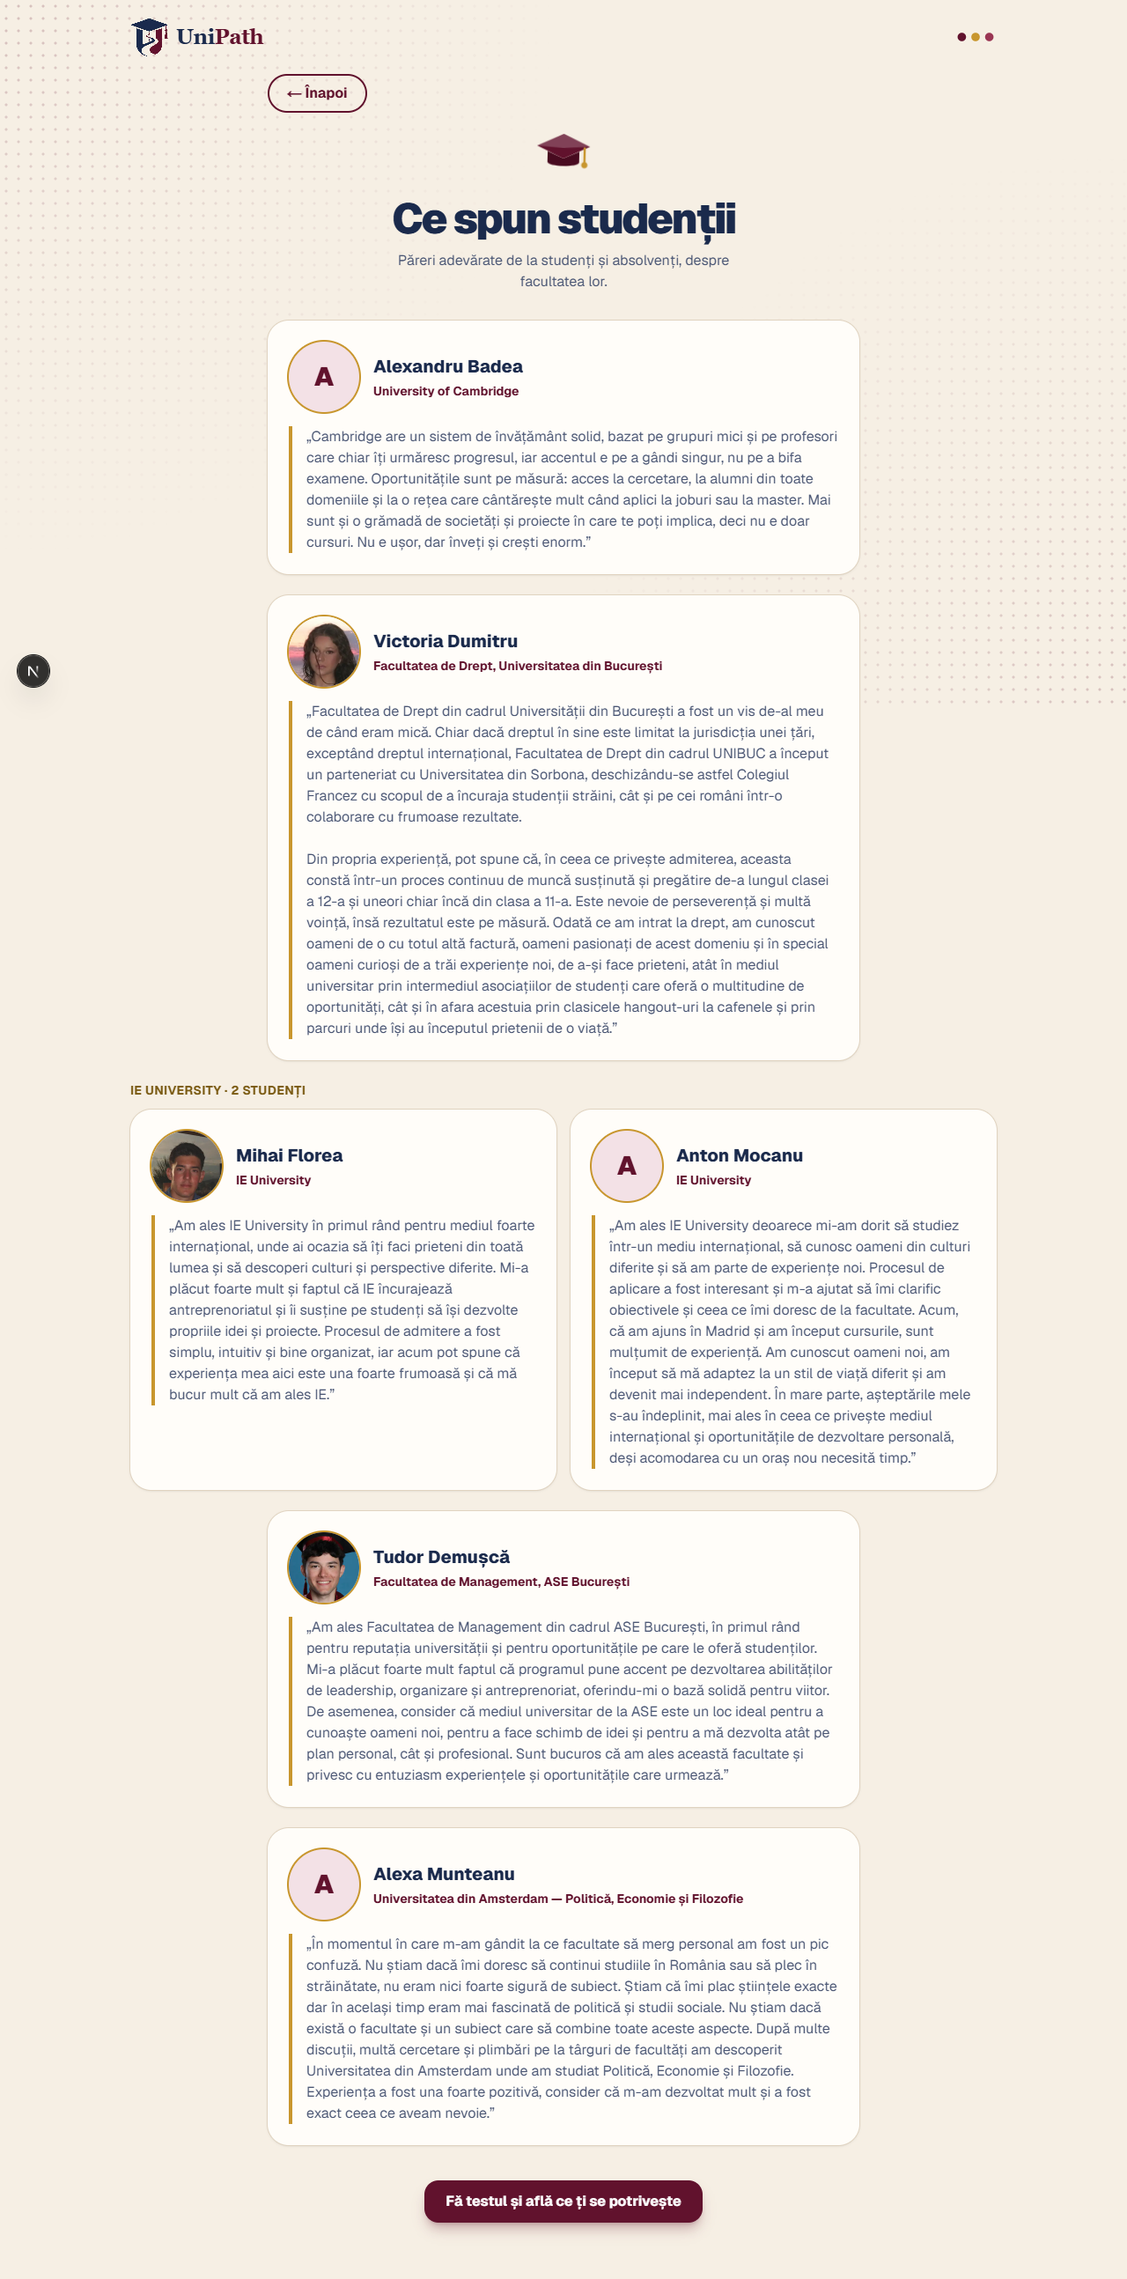
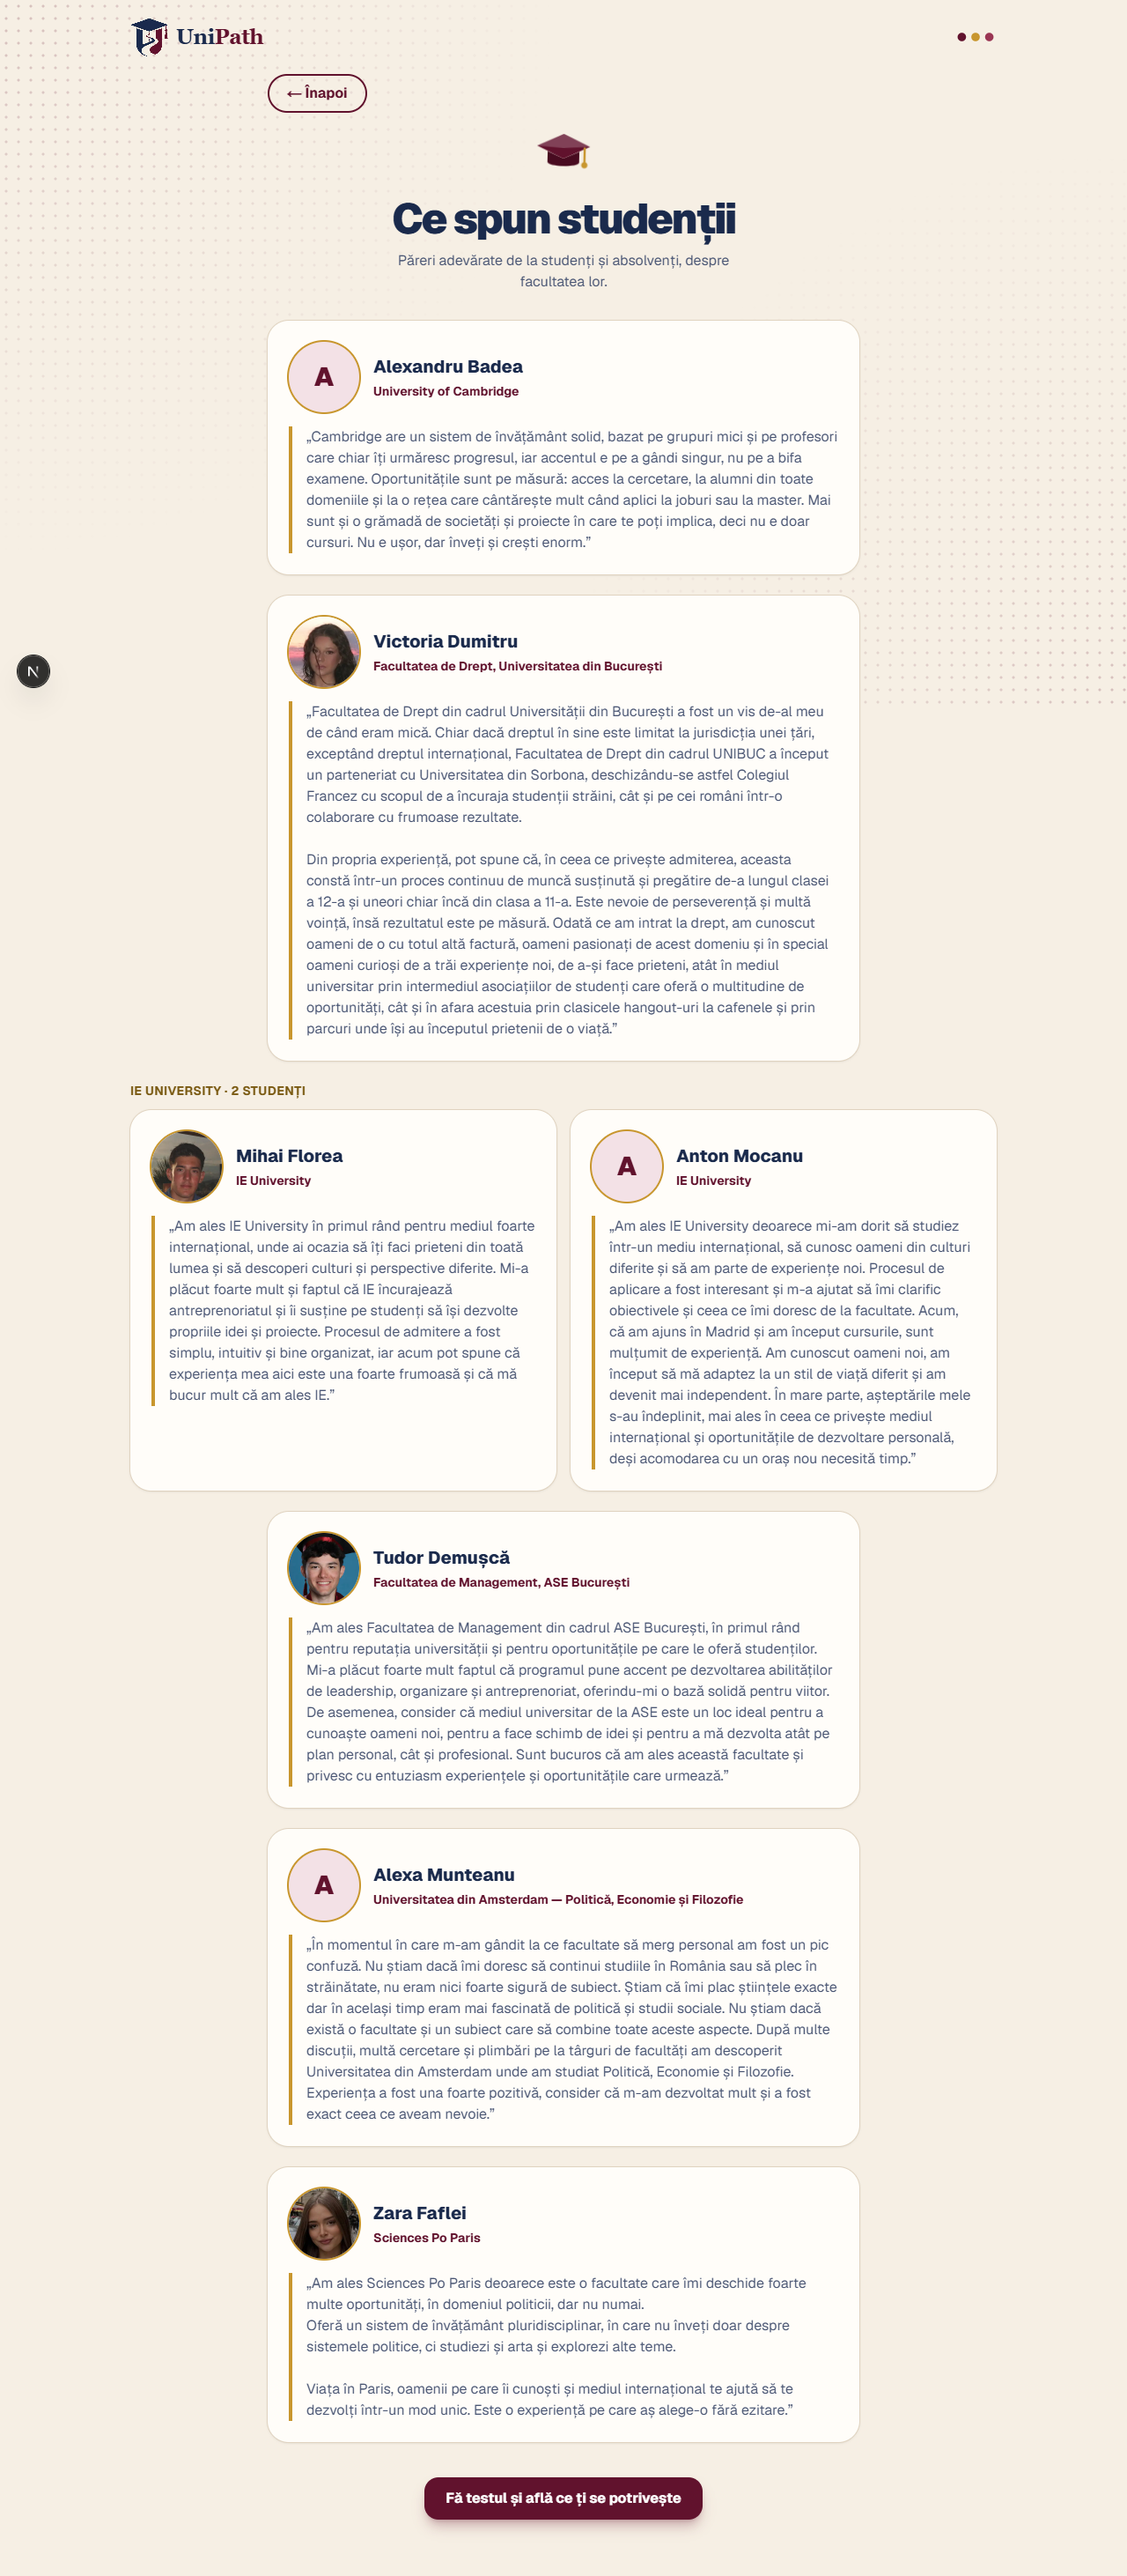
feat: add Zara Faflei's opinion and photo

diff --git a/docs/LEDGER.md b/docs/LEDGER.md
@@ -7,7 +7,7 @@ lista de commit-uri de la final se reface singură.
 
 - **Scop:** site care ghidează liceenii spre facultatea potrivită (tema „The Middle Man”); predare azi, 2026-10-04, la 18:00
 - **Unde:** aplicația e în `apps/web`, publicată la https://unipath-taupe-mu.vercel.app
-- **Urmează:** `/pitch` (prezentarea și scenariul de demo). Pagina studenților are 6 păreri reale; fără poză: Alexandru Badea, Anton Mocanu, Alexa Munteanu
+- **Urmează:** `/pitch` (prezentarea și scenariul de demo). Pagina studenților are 7 păreri reale; fără poză: Alexandru Badea, Anton Mocanu, Alexa Munteanu
 - **De știut:** Vercel CLI e logat doar în aplicația Claude (cont `dobrinlucaadrian-7970`); proiectul de probă `hackaton-proba` din Vercel se poate șterge
 
 ## Jurnal
@@ -20,6 +20,13 @@ lista de commit-uri de la final se reface singură.
 - Poartă: TRECUT / PICAT / NEVERIFICAT (și ce anume)
 - Urmează: pasul următor
 -->
+
+### 2026-10-04 16:15 — Zara Faflei, a șaptea părere
+- Cerut: adăugarea Zarei Faflei (Sciences Po Paris), cu poza trimisă de Pilot
+- Făcut: părerea pusă exact cum a fost dată; poza decupată pe față (320px). Asistentul AI cerut între timp a fost abandonat de echipă (ar fi cerut o cheie plătită)
+- Fișiere: `apps/web/data/testimonials.json`, `apps/web/public/studenti/zara-faflei.jpg`
+- Poartă: TRECUT (build, teste, pornire); pagina văzută într-o captură
+- Urmează: republicare; `/pitch`
 
 ### 2026-10-04 16:00 — studenții de la aceeași universitate, unul lângă altul
 - Cerut: pe pagina „Ce spun studenții”, cei de la aceeași facultate să apară unul lângă altul
@@ -164,6 +171,7 @@ lista de commit-uri de la final se reface singură.
 ## Commit-uri (automat)
 
 <!-- commits:start -->
+- 2026-10-04 15:36 `140f3a3` feat: show students from the same university side by side
 - 2026-10-04 15:32 `53386e1` feat: add two more student opinions
 - 2026-10-04 15:25 `dfe2825` feat: add Victoria Dumitru's photo to her opinion
 - 2026-10-04 15:18 `b51f84f` feat: four real student opinions with photos on the student voices page
@@ -193,5 +201,4 @@ lista de commit-uri de la final se reface singură.
 - 2026-10-03 23:48 `8878279` docs: work directly on main, no branches by default
 - 2026-10-03 23:45 `18dd146` feat: add generated codebase map and ledger, enforced by the gate
 - 2026-10-03 23:38 `ff87e15` chore: keep git hooks on LF line endings
-- 2026-10-03 23:38 `bc6faeb` feat: add quality gate script, commit and Stop hooks, gate skill
 <!-- commits:end -->

diff --git a/docs/MAP.md b/docs/MAP.md
@@ -109,7 +109,7 @@ _Open only the files listed here; a file's description is its first comment line
 - `domains.json` (43) — JSON array, 40 items
 - `profiles.json` (15) — JSON array, 12 items
 - `questions.json` (130) — JSON array, 12 items
-- `testimonials.json` (42) — JSON array, 6 items
+- `testimonials.json` (49) — JSON array, 7 items
 - `universities.json` (2048) — JSON array, 88 items
 
 ### apps/web/lib  (7 files)
@@ -127,8 +127,9 @@ _Open only the files listed here; a file's description is its first comment line
 - `logo.jpg`
 - `logo.png`
 
-### apps/web/public/studenti  (3 files)
+### apps/web/public/studenti  (4 files)
 
 - `mihai-florea.jpg`
 - `tudor-demusca.jpg`
 - `victoria-dumitru.jpg`
+- `zara-faflei.jpg`
